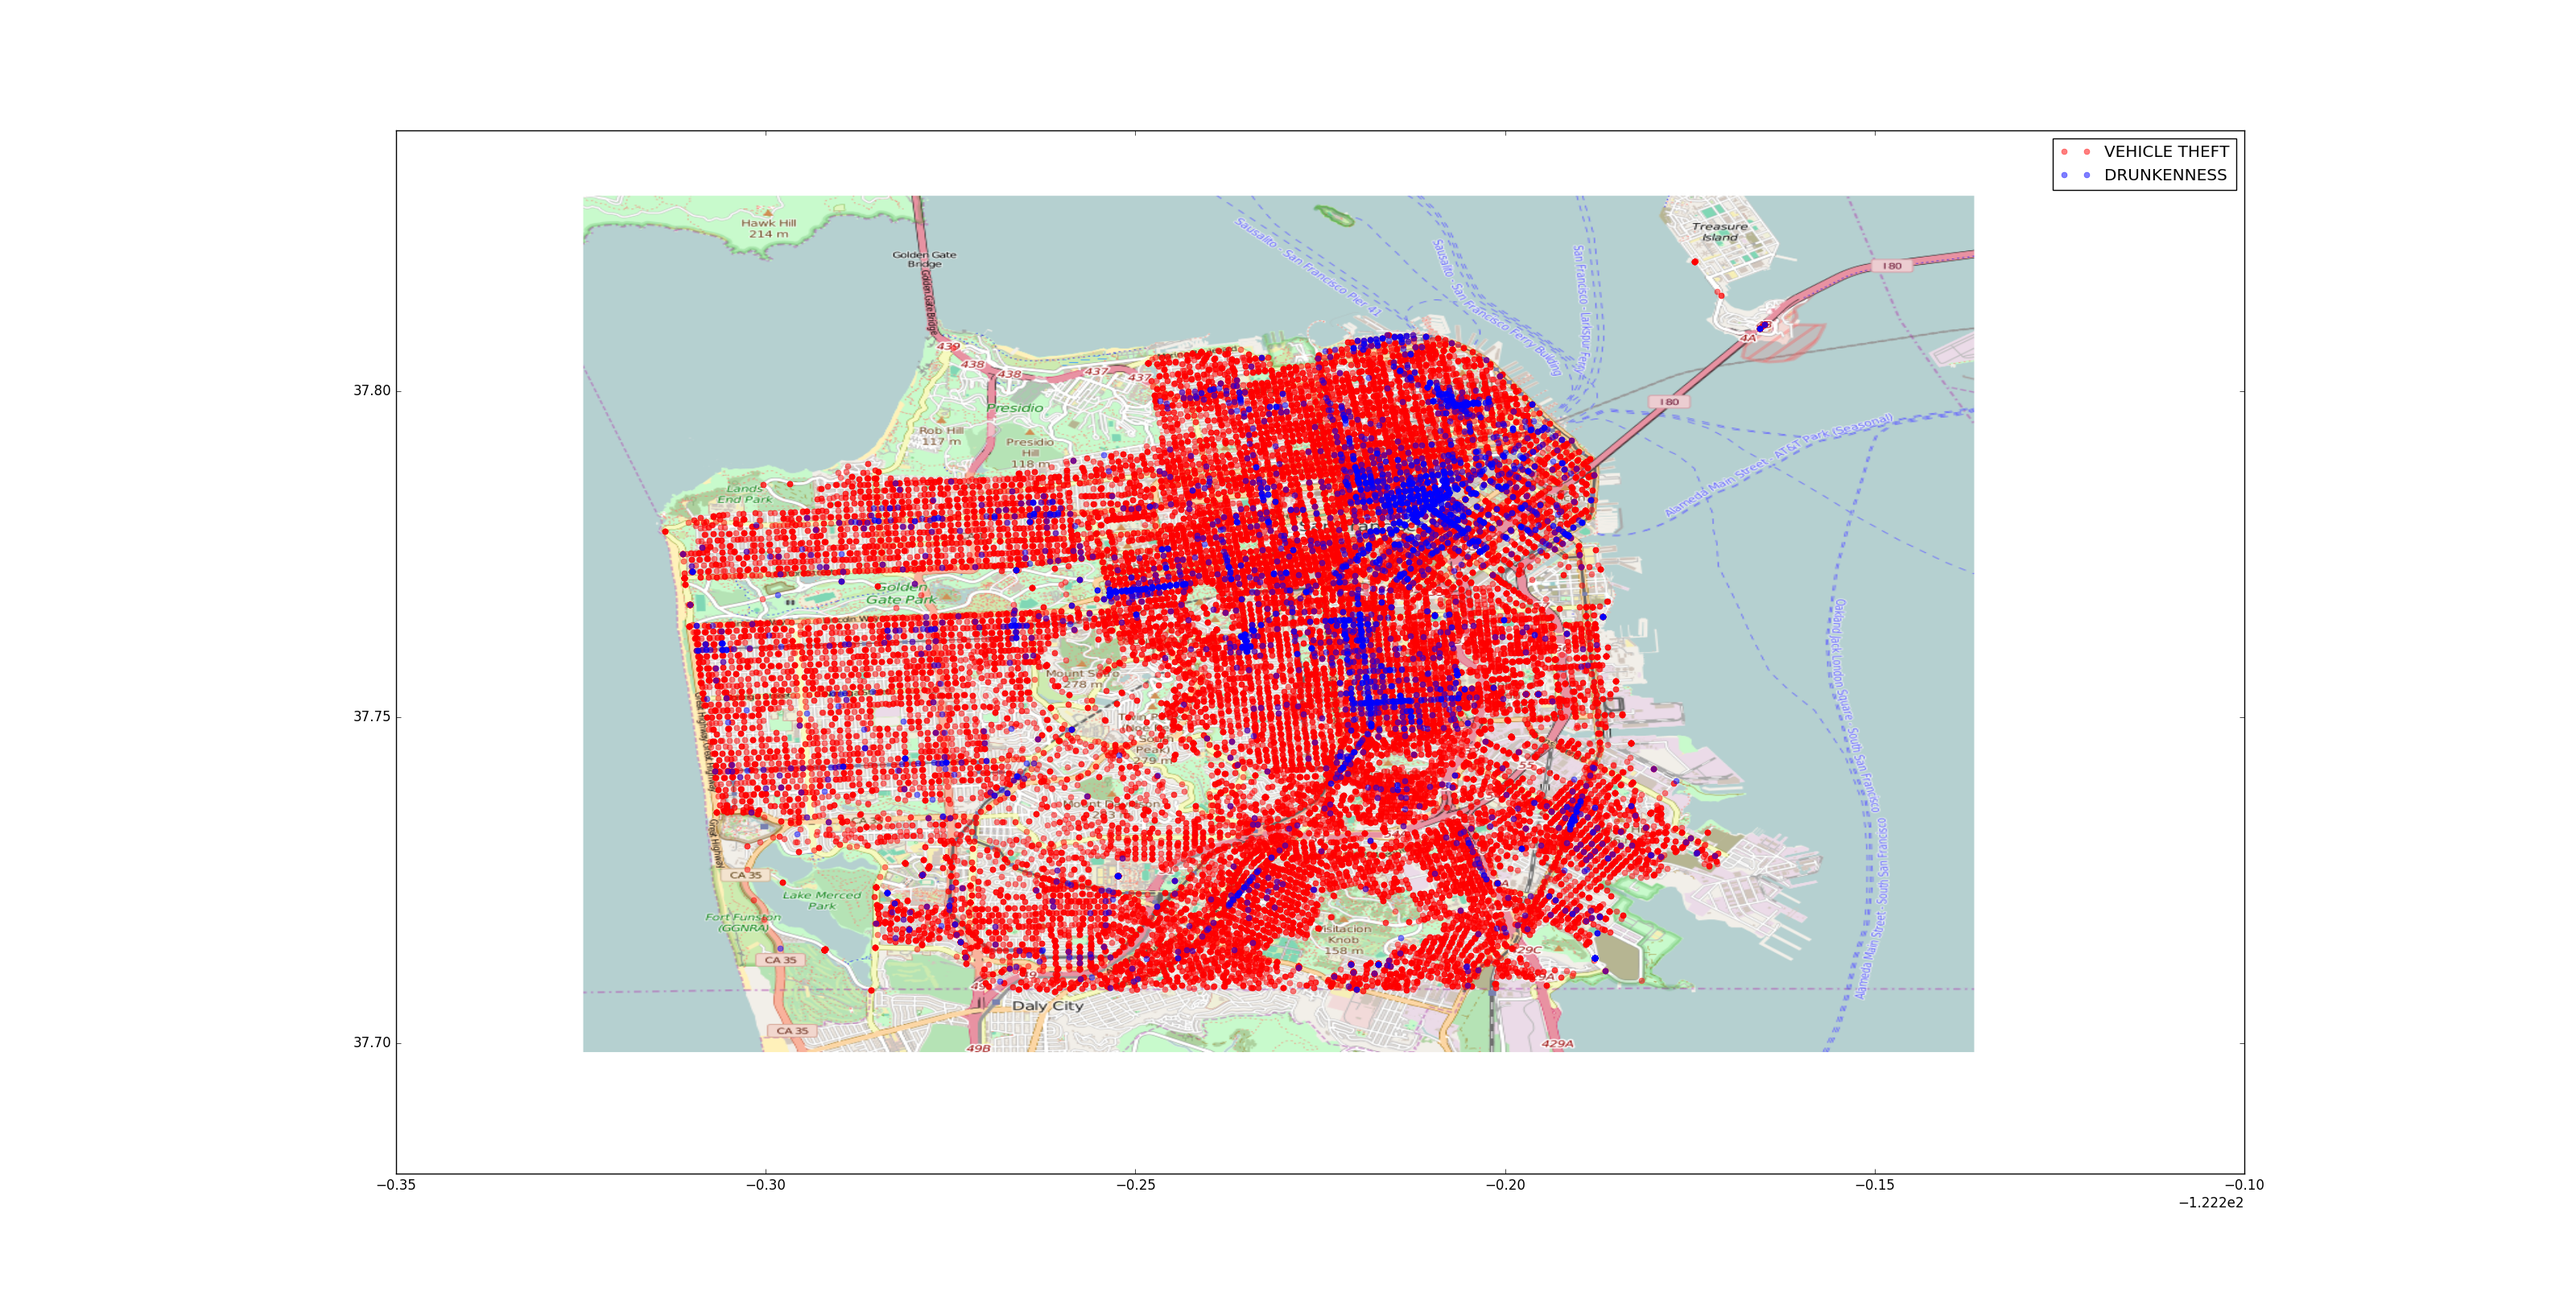
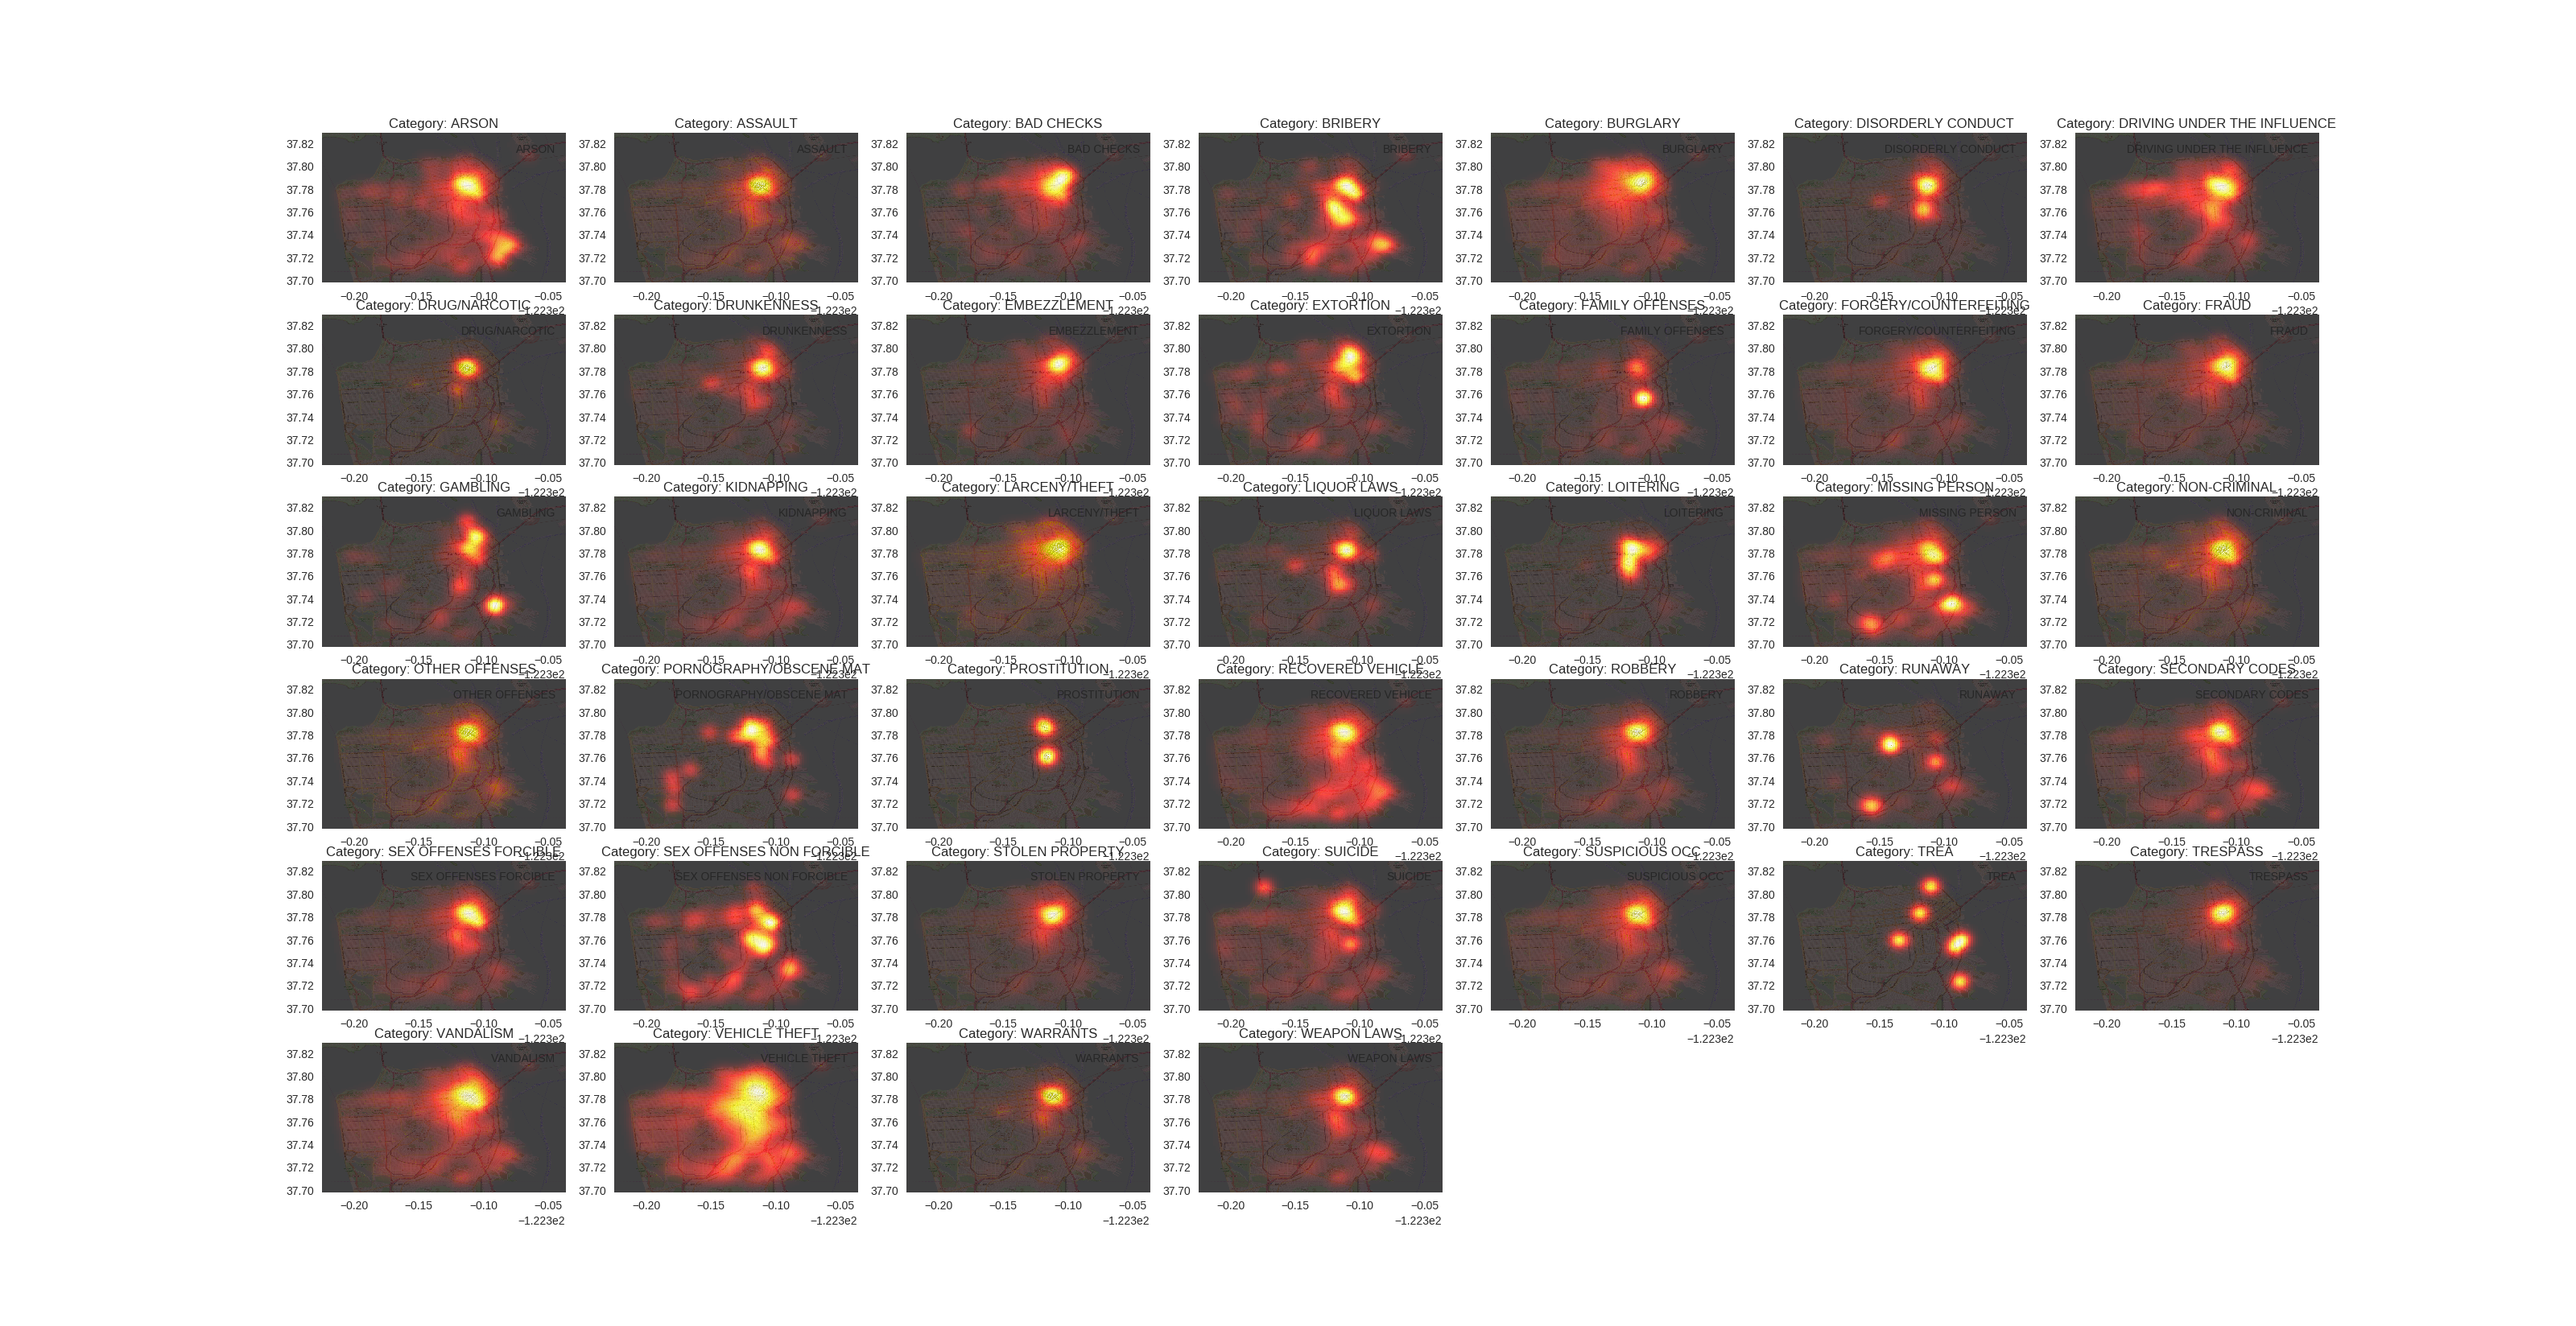
new pictures

diff --git a/visualize.py b/visualize.py
@@ -1,6 +1,7 @@
 #!/usr/bin/python
 
 import matplotlib.pyplot as plt
+import matplotlib
 from utils.loader import *
 from utils.playsound_tobi import *
 import seaborn as sns
@@ -55,13 +56,14 @@ def plotNumCrimes(ax, attribute, normalized_per_attribute=False, normalized_per_
     plt.legend(bbox_to_anchor=(1.02, 1), loc=2, borderaxespad=0.)
     
 import math
+top_cats = ["LARCENY/THEFT", "OTHER OFFENSES", "NON-CRIMINAL", "ASSAULT", "DRUG/NARCOTIC"]
 fig = plt.figure()
 features = ["DayOfWeek", "PdDistrict_num", "Hour", "Year","Month","DayOfYear","StreetCorner" ]
 for i,feat in enumerate(features):
     nrows = 4
     ncols = 2
     ax = fig.add_subplot(nrows, ncols, i+1)
-    plotNumCrimes(ax, feat, catlist=["LARCENY/THEFT", "OTHER OFFENSES", "NON-CRIMINAL", "ASSAULT", "DRUG/NARCOTIC"])
+    plotNumCrimes(ax, feat, catlist=top_cats)
 #plotNumCrimes("DayOfWeek", normalized_per_attribute=True)
 #plotNumCrimes("DayOfWeek", normalized_per_crime=True)
 '''
@@ -71,9 +73,7 @@ plotNumCrimesPerCat("DayOfWeek")
 plotNumCrimesPerCat("Hour")
 plotNumCrimesPerCat("PdDistrict")
 '''
-plt.show()
 
-sys.exit(0)
 
 #########################################
 # Geospatial part
@@ -104,12 +104,11 @@ def plot_map(cat):
     import cv2
     mapdata = cv2.cvtColor(cv2.imread("./data/outputmap.png"), cv2.COLOR_BGR2RGB)
     aspect = mapdata.shape[0] * 1.0 / mapdata.shape[1]
-    fig = plt.figure(figsize=(20,10))
     plt.imshow(mapdata, 
                cmap=plt.get_cmap('gray'), 
                extent=lon_lat_box, 
                aspect=aspect,
-               alpha=.4)
+               alpha=.8)
     
     # Those are all categories present in the dataset
     '''
@@ -127,7 +126,7 @@ def plot_map(cat):
     '''
     
     # Choose a specific category to plot incidents
-    plt.plot(sub.X, sub.Y, 'y.', ms=10, alpha=0.5, label=cat)
+    plt.plot(sub.X, sub.Y, 'y.', ms=2, alpha=0.01, label=cat)
     plt.title("Category: %s" % cat)
     plt.legend()
     
@@ -136,11 +135,16 @@ def plot_map(cat):
                #cmap=alpha_cm, 
                cmap="hot",
                extent=lon_lat_box, 
-               aspect=aspect, alpha=0.5, interpolation='nearest')
+               aspect=aspect, alpha=0.7, interpolation='nearest')
     
-    plt.show()
     
-plot_map("ARSON")
-plot_map("PROSTITUTION")
-plot_map("VEHICLE THEFT")
-plot_map("GAMBLING")
+fig = plt.figure()
+new_style = {'grid': False}
+matplotlib.rc('axes', **new_style)
+for i,cat in enumerate(np.unique(df.Category)):
+    ncols = 6 
+    nrows = 7 
+    fig.add_subplot(ncols, nrows, i+1)
+    plot_map(cat)
+
+plt.show()
